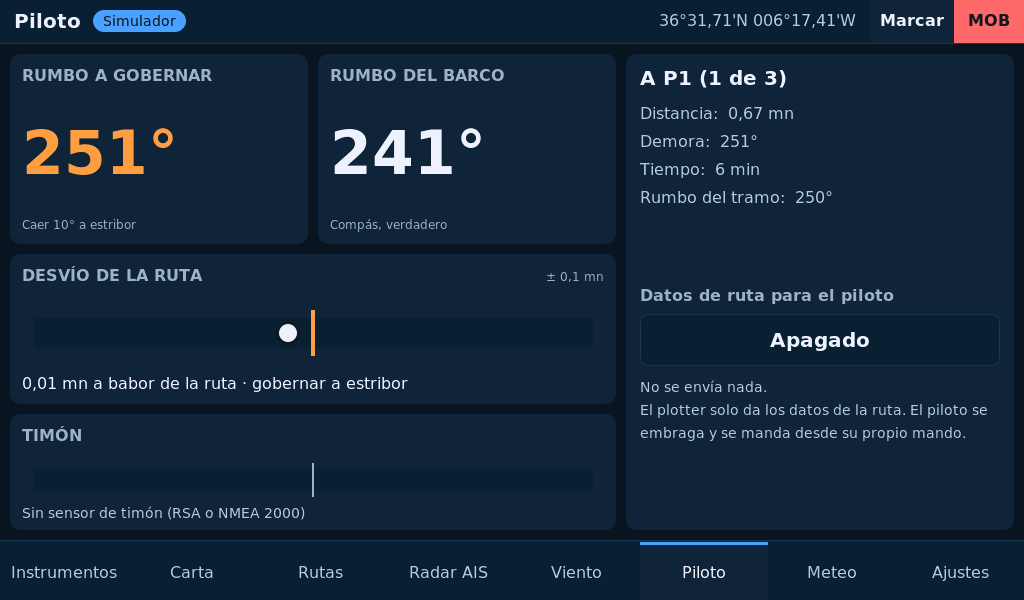
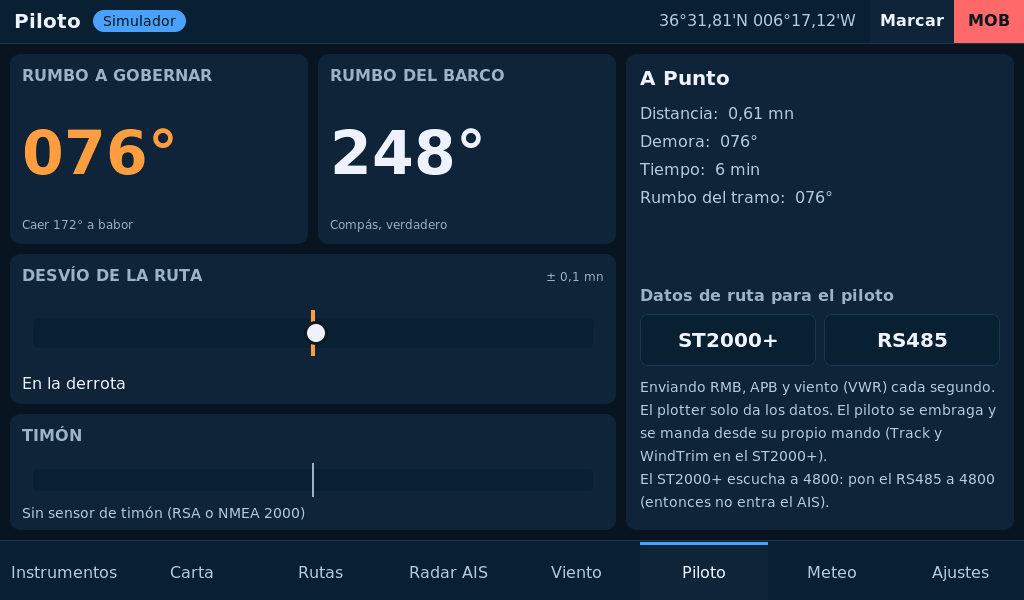
Piloto Raymarine ST2000+: RMB / APB con waypoints de 4 letras, VWR (WindTrim) y VHW; salida por Bluetooth
Claude-Session: https://claude.ai/code/session_017B8KvGdeNYekR2x3YiyR1X

diff --git a/src/ui.cpp b/src/ui.cpp
@@ -2163,32 +2163,66 @@ static const int P_BAR_W = 560;
 static uint32_t pilotLastMs = 0;
 static bool pilotOk = false;
 
-static void onPilotOut(lv_event_t*) {
+static lv_obj_t* pModelLbl = nullptr;
+static bool pilotWind = false;                             // se esta mandando el viento (VWR) al ST2000+
+
+static void onPilotOut(lv_event_t* e) {
     settings::Values& v = settings::get();
-    v.pilotOut = (v.pilotOut + 1) % 3;
+    if ((intptr_t)lv_event_get_user_data(e) == 1) v.pilotModel = (v.pilotModel + 1) % 2;
+    else v.pilotOut = (v.pilotOut + 1) % 4;
     settings::save();
 }
 
-// Una vez por segundo, con ruta activa: APB y RMB por la via elegida
+// Una vez por segundo por la via elegida: con ruta activa, APB y RMB; con el ST2000+, ademas el viento aparente (VWR, para su
+// modo WindTrim, aunque no haya ruta) y la velocidad en el agua (VHW). El ST2000+ solo lee 4 letras del nombre del waypoint:
+// se manda "W001", "W002"... (con "WPT 01", "WPT 02" no veria el cambio de waypoint).
 static void pilotSend() {
     const settings::Values& v = settings::get();
     uint32_t now = millis();
     if (now - pilotLastMs < 1000) return;
     pilotLastMs = now;
     pilotOk = false;
-    if (!v.pilotOut || !navOn) return;
-    const RouteStatus& st = nav.status();
-    const char* dest = navCount > 1 ? navNames[st.target] : navName;
-    const char* orig = (navCount > 1 && st.target > 0) ? navNames[st.target - 1] : "ORIGEN";
-    bool arrived = navCount > 1 ? st.finished : st.inArrival;
-    double sog = 0, cog = 0, closing = 0;
-    if (store->get(Key::Sog, now, sog) && store->get(Key::Cog, now, cog)) closing = sog * cos(deg2rad(norm180(st.bearing - cog)));
+    pilotWind = false;
+    if (!v.pilotOut) return;
+    const bool st2000 = v.pilotModel == 1;
     char b[128];
-    int n = nmeaApb(b, sizeof(b), st.xteNm, arrived, st.abeam, st.legBearing, dest, st.bearing, st.bearing, false);
-    bool ok = links::sendPilot(b, n, v.pilotOut);
-    n = nmeaRmb(b, sizeof(b), st.xteNm, orig, dest, navPts[st.target].lat, navPts[st.target].lon, st.distanceNm, st.bearing, closing, arrived);
-    ok = links::sendPilot(b, n, v.pilotOut) && ok;
-    pilotOk = ok;
+    bool ok = true, any = false;
+    if (navOn) {
+        const RouteStatus& st = nav.status();
+        char destId[8], origId[8];
+        const char* dest = navCount > 1 ? navNames[st.target] : navName;
+        const char* orig = (navCount > 1 && st.target > 0) ? navNames[st.target - 1] : "ORIGEN";
+        if (st2000) {
+            pilotWaypointId(navCount > 1 ? st.target + 1 : 1, destId, sizeof(destId));
+            pilotWaypointId(navCount > 1 ? st.target : 0, origId, sizeof(origId));
+            dest = destId;
+            orig = origId;
+        }
+        bool arrived = navCount > 1 ? st.finished : st.inArrival;
+        double sog = 0, cog = 0, closing = 0;
+        if (store->get(Key::Sog, now, sog) && store->get(Key::Cog, now, cog)) closing = sog * cos(deg2rad(norm180(st.bearing - cog)));
+        int n = nmeaRmb(b, sizeof(b), st.xteNm, orig, dest, navPts[st.target].lat, navPts[st.target].lon, st.distanceNm, st.bearing, closing, arrived);
+        ok = links::sendPilot(b, n, v.pilotOut);
+        n = nmeaApb(b, sizeof(b), st.xteNm, arrived, st.abeam, st.legBearing, dest, st.bearing, st.bearing, false);
+        ok = links::sendPilot(b, n, v.pilotOut) && ok;
+        any = true;
+    }
+    if (st2000) {
+        double awa, aws, stw;
+        if (store->get(Key::Awa, now, awa) && store->get(Key::Aws, now, aws)) {
+            int n = nmeaVwr(b, sizeof(b), awa, aws);
+            pilotWind = links::sendPilot(b, n, v.pilotOut);
+            ok = pilotWind && ok;
+            any = true;
+        }
+        if (store->get(Key::Stw, now, stw)) {
+            char body[64];
+            std::snprintf(body, sizeof(body), "IIVHW,,T,,M,%.1f,N,%.1f,K", stw, stw * 1.852);
+            const int n = std::snprintf(b, sizeof(b), "$%s*%02X\r\n", body, nmeaChecksum(body));
+            links::sendPilot(b, n, v.pilotOut);
+        }
+    }
+    pilotOk = any && ok;
 }
 
 static lv_obj_t* pilotBig(lv_obj_t* parent, int x, const char* name, lv_obj_t** value, lv_obj_t** sub, uint32_t color) {
@@ -2259,8 +2293,11 @@ static void makePilot(lv_obj_t* page) {
     lv_obj_set_style_text_line_space(pInfo, 8, 0);
     t = label(d, "Datos de ruta para el piloto", &dejavu_bold_16, C_DIM);
     lv_obj_align(t, LV_ALIGN_TOP_LEFT, 14, 232);
-    lv_obj_t* b = textButton(d, "", 360, 52, onPilotOut, 0);
+    lv_obj_t* b = textButton(d, "", 176, 52, onPilotOut, 1);           // modelo del piloto
     lv_obj_align(b, LV_ALIGN_TOP_LEFT, 14, 260);
+    pModelLbl = lv_obj_get_child(b, 0);
+    b = textButton(d, "", 176, 52, onPilotOut, 0);                     // por donde sale
+    lv_obj_align(b, LV_ALIGN_TOP_LEFT, 198, 260);
     pOutLbl = lv_obj_get_child(b, 0);
     pOutTxt = label(d, "", &dejavu_14, C_SOFT);
     lv_obj_align(pOutTxt, LV_ALIGN_TOP_LEFT, 14, 324);
@@ -2271,7 +2308,7 @@ static void makePilot(lv_obj_t* page) {
 static void updatePilot() {
     uint32_t now = millis();
     const settings::Values& v = settings::get();
-    char b[220], c[24];
+    char b[400], c[24];
     double hdg = 0, cog = 0, sog = 0, rud = 0;
     bool hasHdg = store->get(Key::Heading, now, hdg), hasCog = store->get(Key::Cog, now, cog);
     store->get(Key::Sog, now, sog);
@@ -2341,11 +2378,23 @@ static void updatePilot() {
         lv_obj_set_hidden(pRudBar, true);
         lv_label_set_text(pRudTxt, "Sin sensor de tim\xC3\xB3n (RSA o NMEA 2000)");
     }
-    static const char* const kOut[3] = {"Apagado", "Por el RS485 (NMEA 0183)", "Por la red (servidor TCP)"};
+    static const char* const kOut[4] = {"Apagado", "RS485", "Red (TCP)", "Bluetooth"};
     lv_label_set_text(pOutLbl, kOut[v.pilotOut]);
-    const char* state = !v.pilotOut ? "No se env\xC3\xAD" "a nada." : (!navOn ? "Sin destino: no se env\xC3\xAD" "a nada." : (pilotOk ? "Enviando APB y RMB cada segundo." : "Sin conexi\xC3\xB3n con el servidor: no se env\xC3\xAD" "a."));
-    snprintf(b, sizeof(b), "%s\nEl plotter solo da los datos de la ruta. El piloto se embraga y se manda desde su propio mando.%s", state,
-             v.pilotOut == 1 ? "\nEl RS485 es el mismo puerto por el que entra el AIS." : "");
+    lv_label_set_text(pModelLbl, v.pilotModel == 1 ? "ST2000+" : "Gen\xC3\xA9rico");
+    const bool st2000 = v.pilotModel == 1;
+    const char* state;
+    if (!v.pilotOut) state = "No se env\xC3\xAD" "a nada.";
+    else if (pilotOk) state = st2000 ? (navOn ? (pilotWind ? "Enviando RMB, APB y viento (VWR) cada segundo." : "Enviando RMB y APB cada segundo.")
+                                              : "Enviando el viento (VWR) para el modo WindTrim.")
+                                     : "Enviando APB y RMB cada segundo.";
+    else if (!navOn && !(st2000 && pilotWind)) state = st2000 ? "Sin destino ni viento aparente: no se env\xC3\xAD" "a nada." : "Sin destino: no se env\xC3\xAD" "a nada.";
+    else state = v.pilotOut == 3 ? "Sin pasarela por Bluetooth: no se env\xC3\xAD" "a." : "Sin conexi\xC3\xB3n con el servidor: no se env\xC3\xAD" "a.";
+    const char* extra = "";
+    if (st2000 && v.pilotOut == 1 && v.serialBaud != 4800) extra = "\nEl ST2000+ escucha a 4800: pon el RS485 a 4800 (entonces no entra el AIS).";
+    else if (v.pilotOut == 1) extra = "\nEl RS485 es el mismo puerto por el que entra el AIS.";
+    else if (st2000 && v.pilotOut == 3) extra = "\nLa pasarela lo saca a 4800 hacia el piloto (blanco NMEA+, verde NMEA\xE2\x88\x92).";
+    snprintf(b, sizeof(b), "%s\nEl plotter solo da los datos. El piloto se embraga y se manda desde su propio mando (Track y WindTrim en el ST2000+).%s",
+             state, extra);
     lv_label_set_text(pOutTxt, b);
 }
 

diff --git a/src/settings.cpp b/src/settings.cpp
@@ -31,6 +31,7 @@ void load() {
     v.blePin = p.getInt("blePin", 123456);
     if (v.blePin < 0 || v.blePin > 999999) v.blePin = 123456;
     v.pilotOut = p.getInt("pilot", 0);
+    v.pilotModel = p.getInt("pilotM", 1);
     v.units = p.getInt("units", 0);
     v.baseMap = p.getInt("map", 0);
     v.anchorOn = p.getBool("anc", false);
@@ -44,7 +45,8 @@ void load() {
     if (v.tcpKind < 0 || v.tcpKind > 3) v.tcpKind = 0;
     if (v.tcpPort < 1 || v.tcpPort > 65535) v.tcpPort = 10110;
     if (v.udpPort < 0 || v.udpPort > 65535) v.udpPort = 0;
-    if (v.pilotOut < 0 || v.pilotOut > 2) v.pilotOut = 0;
+    if (v.pilotOut < 0 || v.pilotOut > 3) v.pilotOut = 0;
+    if (v.pilotModel < 0 || v.pilotModel > 1) v.pilotModel = 1;
     if (v.units < 0 || v.units > 2) v.units = 0;
     if (v.baseMap < 0 || v.baseMap > 3) v.baseMap = 0;
     if (v.anchorRode < 5 || v.anchorRode > 200) v.anchorRode = 30;
@@ -68,6 +70,7 @@ void save() {
     p.putString("bleAddr", v.bleAddr);
     p.putInt("blePin", v.blePin);
     p.putInt("pilot", v.pilotOut);
+    p.putInt("pilotM", v.pilotModel);
     p.putInt("units", v.units);
     p.putInt("map", v.baseMap);
     p.putBool("anc", v.anchorOn);

diff --git a/lib/plotter_core/src/nmea.h b/lib/plotter_core/src/nmea.h
@@ -42,6 +42,13 @@ int nmeaApb(char* out, int size, double xteNm, bool arrived, bool perpendicularP
 int nmeaRmb(char* out, int size, double xteNm, const char* originId, const char* destId, double destLat, double destLon,
             double rangeNm, double bearingTrue, double closingKn, bool arrived);
 
+// Trama VWR (viento aparente: angulo 0-180 a babor L o estribor R, nudos, m/s y km/h). Es la unica de viento que entienden los
+// pilotos de cana Raymarine ST1000+ / ST2000+ para el modo WindTrim (aceptan VWR, no MWV). awaDeg: -180..180, + = estribor.
+int nmeaVwr(char* out, int size, double awaDeg, double awsKn);
+// Nombre de waypoint para un piloto que solo lee los cuatro primeros caracteres (Raymarine ST1000+ / ST2000+): "W001", "W002"...
+// Con nombres mas largos el piloto no ve el cambio de waypoint (todos empiezan por "WPT ") y no avanza.
+void pilotWaypointId(int number, char* out, int size);
+
 enum class NmeaResult { Bad, Ignored, Data, Ais };
 
 class Nmea0183 {

diff --git a/test/host/test_core.cpp b/test/host/test_core.cpp
@@ -448,6 +448,14 @@ static void testPilot() {
         CHECK(rn > 0 && nmeaChecksumOk(r));
         CHECK(std::string(r).find("$ECRMB,A,0.20,R,,AB,3400.0000,S,15130.0000,E,999.9,1.0,-1.5,A,A*") == 0);
         CHECK(nmeaRmb(r, 30, 0, "A", "B", 0, 0, 1, 0, 0, false) == 0);
+        // VWR para el ST2000+ (WindTrim): 35 grados a babor, 12 kn
+        int vn = nmeaVwr(r, sizeof(r), -35, 12);
+        CHECK(vn > 0 && std::string(r).rfind("$IIVWR,35.0,L,12.0,N,6.2,M,22.2,K*", 0) == 0);
+        { Nmea0183 rv; DataStore sv; CHECK(rv.feed(std::string(r, vn - 2).c_str(), Source::Tcp, 0, sv) != NmeaResult::Bad); }   // suma bien
+        CHECK(nmeaVwr(r, sizeof(r), 190, 5) > 0 && std::string(r).rfind("$IIVWR,170.0,L,", 0) == 0);
+        char wid[8];
+        pilotWaypointId(2, wid, sizeof(wid)); CHECK(std::string(wid) == "W002");
+        pilotWaypointId(1234, wid, 5); CHECK(std::string(wid) == "W234" && std::strlen(wid) == 4);
     }
 }
 

diff --git a/lib/plotter_core/src/nmea.cpp b/lib/plotter_core/src/nmea.cpp
@@ -260,4 +260,22 @@ int nmeaRmb(char* out, int size, double xteNm, const char* originId, const char*
     return (w > 0 && w < size) ? w : 0;
 }
 
+int nmeaVwr(char* out, int size, double awaDeg, double awsKn) {
+    char body[64];
+    const double a = norm180(awaDeg);
+    double kn = awsKn < 0 ? 0 : awsKn;
+    if (kn > 999.9) kn = 999.9;
+    int n = std::snprintf(body, sizeof(body), "IIVWR,%.1f,%c,%.1f,N,%.1f,M,%.1f,K", a < 0 ? -a : a, a < 0 ? 'L' : 'R', kn, kn * 1852.0 / 3600.0,
+                          kn * 1.852);
+    if (n <= 0 || n >= int(sizeof(body))) return 0;
+    int w = std::snprintf(out, size_t(size), "$%s*%02X\r\n", body, nmeaChecksum(body));
+    return (w > 0 && w < size) ? w : 0;
+}
+
+void pilotWaypointId(int number, char* out, int size) {
+    if (size <= 0) return;
+    if (number < 0) number = 0;
+    std::snprintf(out, size_t(size), "W%03d", number % 1000);
+}
+
 }  // namespace plotter

diff --git a/src/settings.h b/src/settings.h
@@ -23,7 +23,8 @@ struct Values {
     bool bleOn = false;             // enlace BLE con la pasarela
     int blePin = 123456;            // PIN de control del tracker APRS LoRa+ (para recibir su NMEA por BLE)
     char bleAddr[18] = "";          // equipo recordado ("" = el primero que aparezca)
-    int pilotOut = 0;               // datos de ruta al piloto: 0 no, 1 RS485, 2 servidor TCP
+    int pilotOut = 0;               // datos de ruta al piloto: 0 no, 1 RS485, 2 servidor TCP, 3 Bluetooth (pasarela XIAO)
+    int pilotModel = 1;             // 0 generico (APB + RMB), 1 Raymarine ST2000+ de Manuel (RMB + APB con waypoints de 4 letras, VWR, VHW)
     int units = 0;                  // 0 nautico, 1 metrico, 2 imperial
     int baseMap = 0;                // 0 OpenSeaMap, 1 IHM, 2 IGN, 3 ortofoto (carpetas de la tarjeta)
     bool anchorOn = false;          // fondeo vigilado: sigue tras un reinicio

diff --git a/tools/ui_preview/host.cpp b/tools/ui_preview/host.cpp
@@ -10,6 +10,7 @@
 #include <string>
 #include <vector>
 #include "links.h"
+#include "settings.h"
 #include "store.h"
 #include "ui.h"
 
@@ -65,6 +66,7 @@ int main(int argc, char** argv) {
             else if (a == "red") ui::testNet();
             else if (a == "acerca") ui::testAbout();
             else if (a == "rs485") ui::testRs485();
+            else if (sscanf(a.c_str(), "piloto:%d", &x) == 1) settings::get().pilotOut = x;   // 1 RS485, 2 red, 3 Bluetooth
             else if (a == "internet") ui::testInternet();
             else if (sscanf(a.c_str(), "ajuste:%d", &x) == 1) ui::testSetting(x);
             else if (a == "marcar") ui::testMark();

diff --git a/src/links.cpp b/src/links.cpp
@@ -113,6 +113,7 @@ bool sendPilot(const char* sentence, int len, int via) {
     if (len <= 0) return false;
     if (via == 1) { Serial1.write((const uint8_t*)sentence, (size_t)len); st.pilotSent++; return true; }
     if (via == 2 && net::status().tcp) { net::sendTcp(sentence, len); st.pilotSent++; return true; }
+    if (via == 3 && ble::write(sentence, len)) { st.pilotSent++; return true; }   // la pasarela lo saca a 4800 hacia el piloto
     return false;
 }
 

diff --git a/CLAUDE.md b/CLAUDE.md
@@ -41,7 +41,13 @@ Maquetas (lienzo Design, cuatro páginas por fases): https://claude.ai/artifact/
   un cliente TCP: si se usa para gpsd o Signal K, la XIAO debe usar UDP). **BLE con la XIAO: sin hacer en el plotter** (no
   hay BLE todavía; servicio y formato por definir junto con el firmware de la XIAO, repositorio `APRS-LoRa-Plus-NMEA2000`).
 - Unidades: náutico (profundidad en metros), métrico, imperial y usuario.
-- Piloto automático: solo se da por viable enviar datos de ruta; los mandos dependen de la marca (pendiente saber cuál).
+- Piloto automático: solo se da por viable enviar datos de ruta; los mandos dependen de la marca. **Es un Raymarine ST2000+
+  de caña (Manuel, 2026-11-12)**. Del manual 81130-9 (2023): entra NMEA 0183 por el pin 6 (blanco, NMEA+) y el 5 (verde,
+  NMEA−) de su conector (1 +12 V marrón, 2 0 V azul, 4 SeaTalk amarillo); lee XTE de APB / APA / RMB / XTE / XTR, demora y
+  distancia de RMB / APB / BWC / BWR..., velocidad en el agua de VHW y **viento aparente solo de VWR** (no MWV) para WindTrim;
+  **solo lee 4 letras del nombre del waypoint** (más largos: no avanza). 4800 baudios (foro de Raymarine; el manual no lo
+  dice). Mínimo para Track según Raymarine: BTW, DTW, WPID y XTE (RMB basta). Mandos a distancia: SeaTalk1 (Z101, ST600R),
+  sin hacer: haría falta un interfaz SeaTalk (bus de 12 V, 9 bits, 4800) en la pasarela XIAO o en el plotter.
 - Declinación: Modelo Magnético Mundial calculado a bordo, con descarga del archivo de coeficientes cuando caduque.
 - Fase 4: mareas (constantes por puerto; mirar el WMS de mareas del IHM) y rectas de altura (Meeus, contrastar con el Almanaque).
 - Librerías: versiones fijadas y una tarea semanal que proponga actualizaciones tras compilar.
@@ -311,6 +317,9 @@ Maquetas (lienzo Design, cuatro páginas por fases): https://claude.ai/artifact/
   (Pypilot: puerto 20220). Solo datos: no embraga ni manda el piloto. El RS485 es el mismo puerto del AIS (el transceptor
   conmuta solo): emitir por él con un receptor AIS conectado al mismo par puede chocar; sin probar. Falta: demoras
   magnéticas para pilotos que las pidan, XTE / BWC, y los mandos según la marca del piloto de Manuel.
+  **ST2000+ (2026-11-12)**: `settings.pilotModel` (0 genérico, 1 ST2000+ de serie, NVS `pilotM`) y salida 3 = Bluetooth
+  (`ble::write` a la pasarela). Con el ST2000+: RMB + APB con `pilotWaypointId` («W001»...), VWR (`nmeaVwr`) y VHW cada
+  segundo aunque no haya ruta (WindTrim); aviso si sale por el RS485 sin estar a 4800. Acción `piloto:n` en el dibujo del PC.
 - **Relevo por internet y pestaña Meteo (2026-11-11, rama `internet`; Manuel: «si falla cualquier sensor físico podrá
   alternar con los datos obtenidos de internet»)**: la tabla de datos ya lo hacía por prioridad (a los 10 s sin un sensor
   entra la fuente siguiente y vuelve sola al reaparecer); faltaba traer los datos. `net.cpp`: OpenWeatherMap
@@ -466,4 +475,4 @@ Maquetas (lienzo Design, cuatro páginas por fases): https://claude.ai/artifact/
    medir hechos. Fondeo, unidades, mapa base, NMEA 2000 (escucha) y red (WiFi, NMEA por TCP / UDP, gpsd) hechos. Pestaña Viento hecha. Pestaña Piloto hecha. Relevo por internet y pestaña Meteo hechos. BLE con la pasarela hecho (lado plotter). Signal K nativo hecho. Lo siguiente: zumbador (pin por decidir), AEMET, lista de equipos BLE, y probar en la placa.
 2. NMEA 2000: hecho en escucha con decodificador propio; más PGN según lo que haya en la red de Manuel.
 3. Carta con teselas en microSD y costa de reserva, waypoints y rutas (GPX); radar AIS; alarmas; zumbador externo; reproducción NMEA.
-4. Pendiente de Manuel: marca del piloto automático. Viento: entra por la pasarela XIAO (CAN, UDP por WiFi o BLE); el plotter ya tiene el BLE (docs/BLE_NMEA.md); falta readaptar el firmware de la XIAO.
+4. Piloto: Raymarine ST2000+ (hecho el perfil de datos). Pendiente: por dónde sale a 4800 (RS485 sin AIS, pasarela XIAO o adaptador WiFi) y, si se quiere, mandos por SeaTalk1. Viento: entra por la pasarela XIAO (CAN, UDP por WiFi o BLE); el plotter ya tiene el BLE (docs/BLE_NMEA.md); falta readaptar el firmware de la XIAO.

diff --git a/docs/USER_MANUAL_EN.md b/docs/USER_MANUAL_EN.md
@@ -183,9 +183,18 @@ to the plotter over NMEA 2000, Bluetooth or Wi-Fi: see `WIND_INSTRUMENT_EN.md`.
 - **Desvío de la ruta** (cross-track error): the centre line is the route and the dot is the boat. It tells you which
   side you are on and which way to steer.
 - **Timón** (rudder): if the rudder angle is available.
-- **Datos de ruta para el piloto** (route data for the pilot): Apagado (off), Por el RS485 or Por la red (network).
+- **Datos de ruta para el piloto** (route data for the pilot): two buttons. The left one picks the pilot: **ST2000+** (the
+  Raymarine ST2000 Plus tiller pilot, the default) or **Genérico** (generic). The right one picks the route: Apagado (off),
+  **RS485**, **Red (TCP)** (network) or **Bluetooth** (the XIAO gateway passes it on to the pilot).
 
-The plotter only gives data to the pilot. **It does not engage or command it**: that is done from its own control head.
+With the **ST2000+**, once a second: **RMB** and **APB** with a destination (for its Track mode), **VWR** with the apparent
+wind (for its WindTrim mode, even without a destination) and **VHW** with the speed through the water. Waypoints are sent
+as «W001», «W002»...: the ST2000+ only reads the first four characters of the name, and with «WPT 01», «WPT 02» it would not
+see the waypoint change. The ST2000+ listens at **4800 baud** on its connector (pin 6 white NMEA+, pin 5 green NMEA−): if
+the output goes through the RS485, set it to 4800 in Ajustes, and then the Comar AIS (38400) no longer comes in. The generic
+pilot gets APB and RMB with the waypoint names.
+
+The plotter only gives data to the pilot. **It does not engage or command it**: that is done from its own keypad.
 
 ## 8. Meteo (Weather)
 

diff --git a/docs/MANUAL_USUARIO.md b/docs/MANUAL_USUARIO.md
@@ -177,9 +177,18 @@ Wind), que se lo pasa al plotter por NMEA 2000, Bluetooth o WiFi: ver `INSTRUMEN
 - **Desvío de la ruta**: la línea del centro es la ruta y el punto es el barco. Dice a qué banda estás y hacia dónde
   gobernar.
 - **Timón**: si llega el ángulo de timón.
-- **Datos de ruta para el piloto**: Apagado, Por el RS485 o Por la red.
+- **Datos de ruta para el piloto**: dos botones. El de la izquierda elige el piloto: **ST2000+** (el Raymarine ST2000 Plus
+  de cana, de serie) o **Genérico**. El de la derecha, por dónde sale: Apagado, **RS485**, **Red (TCP)** o **Bluetooth**
+  (la pasarela XIAO lo saca hacia el piloto).
 
-El plotter solo da datos al piloto. **No lo embraga ni lo manda**: eso se hace desde su propio mando.
+Con el **ST2000+**, una vez por segundo: **RMB** y **APB** con destino (para su modo Track), **VWR** con el viento aparente
+(para su modo WindTrim, aunque no haya destino) y **VHW** con la velocidad en el agua. Los waypoints van como «W001»,
+«W002»...: el ST2000+ solo lee las cuatro primeras letras del nombre y con «WPT 01», «WPT 02» no vería el cambio de
+waypoint. El ST2000+ escucha a **4800 baudios** por su conector (pin 6 blanco NMEA+, pin 5 verde NMEA−): si sale por el
+RS485, ponlo a 4800 en Ajustes, y entonces no entra el AIS del Comar (va a 38400). Con el genérico, APB y RMB con los
+nombres de los waypoints.
+
+El plotter solo da datos al piloto. **No lo embraga ni lo manda**: eso se hace desde su propio teclado.
 
 ## 8. Meteo
 

diff --git a/docs/INSTALLATION_EN.md b/docs/INSTALLATION_EN.md
@@ -169,9 +169,15 @@ phone. To use both, connect the phone to the tracker and the plotter to the phon
 
 ### 5.5 Autopilot output
 
-**Piloto** tab > «Datos de ruta para el piloto» (route data for the pilot): Apagado (off), **Por el RS485** or **Por la
-red** (over the network). With an active destination it sends APB and RMB sentences once a second. Over the network it
-uses the TCP server from Ajustes > Red (Pypilot: port 20220).
+**Piloto** tab > «Datos de ruta para el piloto» (route data for the pilot): the pilot (**ST2000+** or **Genérico**,
+generic) and the output (Apagado = off, **RS485**, **Red (TCP)** = network, or **Bluetooth**). With an active destination it
+sends APB and RMB once a second; with the ST2000+ also VWR (apparent wind, WindTrim mode) and VHW, and waypoints as «W001»...
+(it reads four characters). Over the network it uses the TCP server from Ajustes > Red (Pypilot: port 20220); over
+Bluetooth, the XIAO gateway.
+
+**Raymarine ST2000+**: NMEA 0183 input at 4800 on its connector: pin 6 (white) NMEA+, pin 5 (green) NMEA−. Through the
+RS485: A (+) to white and B (−) to green, with the RS485 at 4800 (the Comar at 38400 stops coming in). Without that clash:
+through the XIAO gateway (Bluetooth) with its NMEA output at 4800, or through a WiFi-NMEA adapter (network).
 
 The plotter **only provides data**: the pilot is engaged and commanded from its own control head. Bearings are true.
 
